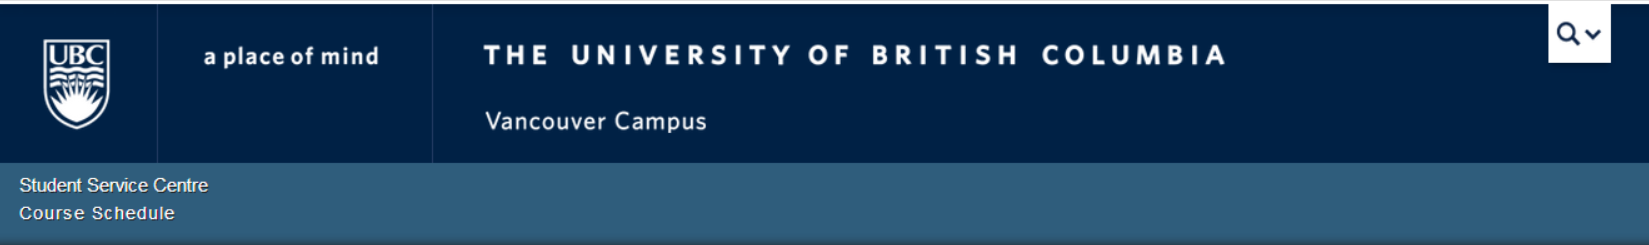
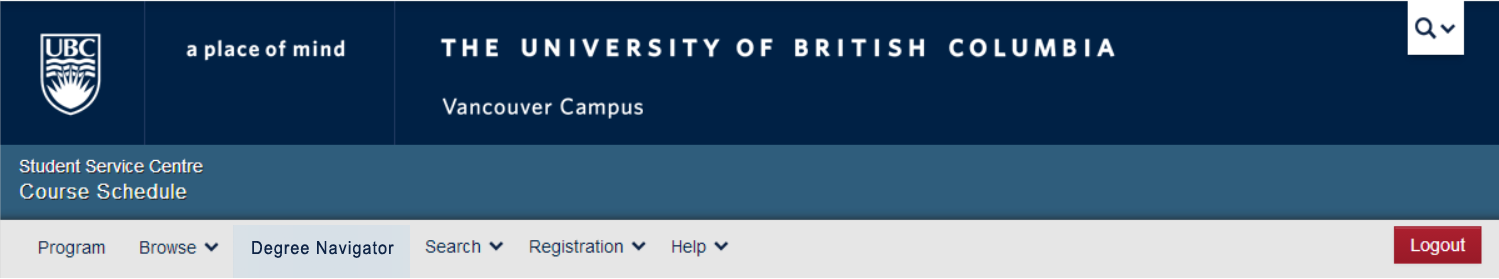
Move session and campus dropdown up.
Note: worklist dropdown is in a weird location now.

diff --git a/index.html b/index.html
@@ -12,9 +12,40 @@
 <script src="app/db/global.js"></script>
 <script src="app/js/main.js"></script>
 
+<div class="container" style="padding: 0;">
+  <img src="app/img/banner.png" border=0 width="100%"></img>
+</div>
+
 <div class="container" id="top">
-<img src="app/img/banner.png" border=0 width="100%"></img>
-<h1>Degree Requirement Navigator</h1>
+
+  <div class="row">
+    <div class="col-md-8">
+      <h1>Degree Requirement Navigator</h1>
+    </div>
+    <div class="col-md-4" style="padding: 20px;">
+      <div class="btn-group">
+        <button type="button" class="btn btn-primary dropdown-toggle" data-toggle="dropdown">
+          Vancouver Campus
+          <span class="caret"></span>
+        </button>
+        <ul class="dropdown-menu">
+          <li><a href="#">Vancouver Campus</a></li>
+          <li><a href="#">Okanagan Campus</a></li>
+        </ul>
+      </div>
+      <div class="btn-group">
+        <button type="button" class="btn btn-primary dropdown-toggle" data-toggle="dropdown">
+          Session: Winter 2013
+          <span class="caret"></span>
+        </button>
+        <ul class="dropdown-menu">
+          <li><a href="#">Winter 2013</a></li>
+          <li><a href="#">Summer 2014</a></li>
+        </ul>
+      </div>
+    </div>
+  </div>
+  
   <div class="row">
 
     <!-- Load Trophy Case -->

diff --git a/app/snippets/cpMain.html b/app/snippets/cpMain.html
@@ -1,24 +1,3 @@
-<h3>Session</h3>
-<div class="btn-group">
-  <button type="button" class="btn btn-primary dropdown-toggle" data-toggle="dropdown">
-    Winter 2013
-    <span class="caret"></span>
-  </button>
-  <ul class="dropdown-menu">
-    <li><a href="#">Winter 2013</a></li>
-    <li><a href="#">Summer 2014</a></li>
-  </ul>
-</div>
-<div class="btn-group">
-  <button type="button" class="btn btn-primary dropdown-toggle" data-toggle="dropdown">
-    Vancouver Campus
-    <span class="caret"></span>
-  </button>
-  <ul class="dropdown-menu">
-    <li><a href="#">Vancouver</a></li>
-    <li><a href="#">Okanagan</a></li>
-  </ul>
-</div>
 <div class="btn-group">
   <button type="button" class="btn btn-primary dropdown-toggle" data-toggle="dropdown">
     Worklist 1

diff --git a/app/snippets/tcCPSC2XX.html b/app/snippets/tcCPSC2XX.html
@@ -36,7 +36,7 @@
       <div>
 	  	<span>
 			<button class="btn btn-success pull-left" data-toggle="tooltip" title="Required for promotion" onclick="showCourse('CPSC 213', 'Introduction to Computer Systems')">
-				<span class="glyphicon glyphicon-unchecked"></span>
+				<span class="glyphicon"><img src="app/img/glyphicons_204_unlock.png"></img></span>
 				<span class="badge pull-right">4</span>
 			</button>
 			<table border=0>
